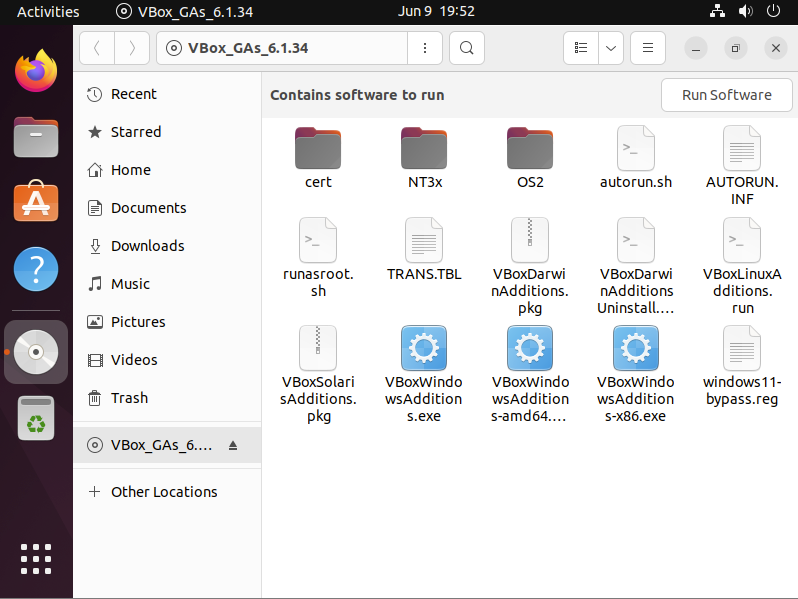
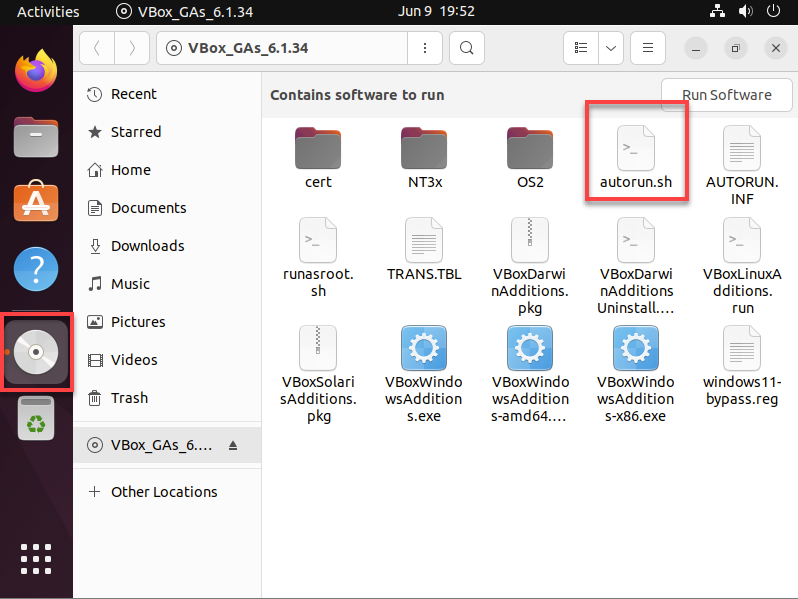
Publishing vbox guest additions.

Changed region(s): [[0.7218, 0.1503, 0.8722, 0.3606], [0.0, 0.5109, 0.1203, 0.6912]]

diff --git a/_posts/2022-06-09-virtualbox-guest-additions.md b/_posts/2022-06-09-virtualbox-guest-additions.md
@@ -3,24 +3,50 @@ title: VirtualBox Guest Additions
 date: "2022-06-09 19:36"
 categories: [Series, VirtualBox Installs]
 tags: [homelab, virtualbox, ubuntu, infrastructure, virtualization]
-published: false
+published: true
 ---
 ## Overview
+
+A key part of using VirtualBox is knowing that there is technology like the "VirtualBox Guest Additions". What this is, are libraries and drivers that tell the hosted operating system, that it is hosted in VirtualBox, and it lets the two operating systems work together!
+
+There are at least huge benefits of installing these:
+
+1. **Shared Clipboard** - you can configure a one-way or two-way clipboard sharing. For example, you *Copy* a value on your PC and *Paste* it in your guest VM. Without something as basic as that, how would exchange simple data? You'd have to manually type everything.
+1. **Shared Folder** - you can configure a shared folder between the guest and the host. Meaning, you can have a folder on your desktop, and that same folder can be mounted inside of your virtual machine! This lets you easily copy files back and forth through a "portal" that connects your guest and host computer.
+1. **Screen Resolution** - once installed, if you resize your VM window, the guest OS will instantly re-size the resolution. If you go to full-screen, it will re-adjust the resolution for full-screen!
+
+There are several other benefits, but as you can see, it's a valuable thing to do and just takes a minute.
 
 ## Steps
 
 Below are the steps to install the VirtualBox Guest Additions on Ubuntu.
 
-### STEP 1: Virtually insert DVD
+### STEP 1: Virtually insert CD
 
-![Insert DVD](/assets/img/virtualbox-guest-additions/vbox-menu.png)
+In the "Devices" menu, choose "Insert Guest Additions CD Image...". On macOS:
+
+![Insert CD - macOS](/assets/img/virtualbox-guest-additions/vbox-menu.png)
+
+and on Windows:
+
+![Insert CD - Windows](/assets/img/virtualbox-guest-additions/vbox-menu-win.png)
 
 ### STEP 2: Run `autorun.sh`
 
+Next, open the newly-mounted CD in the main menu on the left. That brings up a file explorer. Double-click `autorun.sh` to run that program:
+
 ![Folder View](/assets/img/virtualbox-guest-additions/pre-autorun.png)
+
+That should prompt you for your password:
 
 ![Folder View](/assets/img/virtualbox-guest-additions/sudo-prompt.png)
 
 ### STEP 3: Reboot
 
+When done, it should prompt you to reboot:
+
 ![Post-run](/assets/img/virtualbox-guest-additions/post-autorun.png)
+
+## Summary
+
+Upon reboot you should now see that the resolution changes when you resize the window, you can set up a shared clipboard or shared folder in the settings too.
